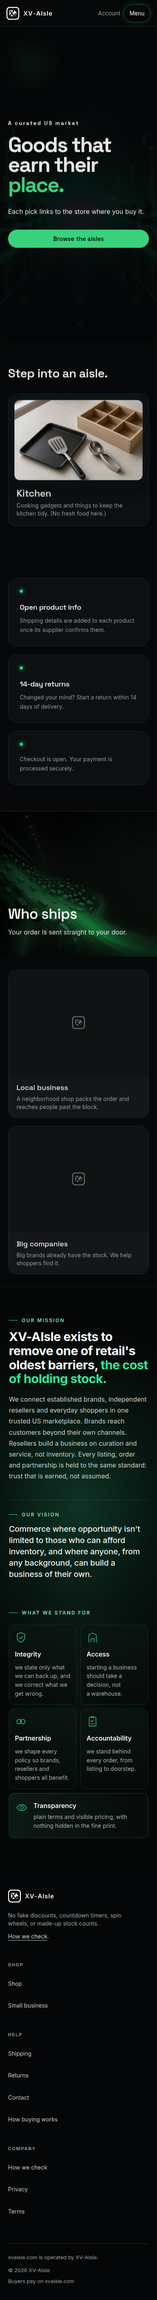
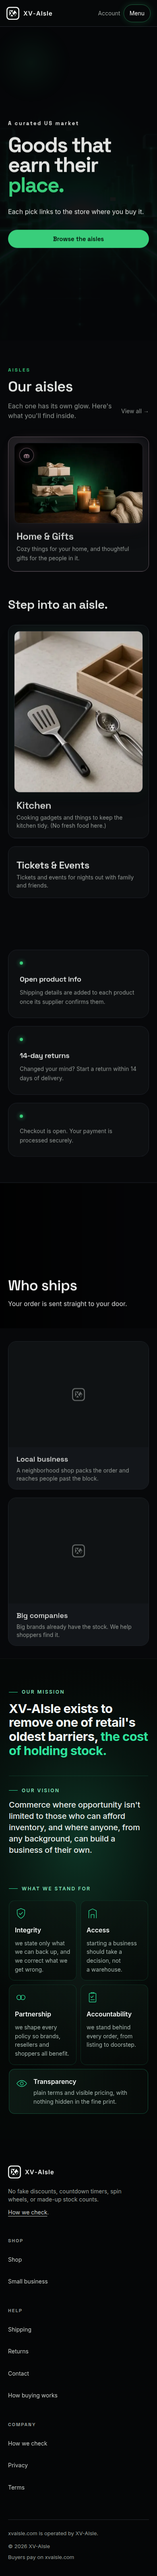
feat: publish the approved partner links
Viator, GetYourGuide, and Zazzle use the approved URLs. Bookshop stays unset, so that card stays hidden while Home & Gifts opens from Zazzle. The meta description and store lede use the new lines, and the mission paragraph is not rendered.

diff --git a/scripts/check-affiliates.ts b/scripts/check-affiliates.ts
@@ -1,4 +1,4 @@
-import { createElement } from "react";
+import { createElement, type ReactElement } from "react";
 import { mkdtempSync, readdirSync, readFileSync, statSync } from "node:fs";
 import { tmpdir } from "node:os";
 import { join } from "node:path";
@@ -38,7 +38,16 @@ async function main() {
   const map = readFileSync(join(process.cwd(), "docs/affiliate-page-map.md"), "utf8");
   assert(map.includes(affiliates.AFFILIATE_DISCLOSURE_SHORT), "the page map quotes the card disclosure");
   assert(map.includes("Gift a book") && map.includes("Gift ideas") && map.includes("Tours and things to do"), "the page map uses the approved headings");
-  assert(affiliates.AFFILIATE_OFFERS.every((offer) => offer.href === ""), "affiliate hrefs stay empty until a link-builder URL is pasted");
+  const approvedHrefs: Record<string, string> = {
+    bookshop: "",
+    viator: "https://www.viator.com/?pid=P00330828&mcid=42383&medium=link",
+    getyourguide: "https://www.getyourguide.com/?partner_id=YEH3QKQ",
+    zazzle: "https://www.zazzle.com/?rf=238672294015858667",
+  };
+  assert(
+    affiliates.AFFILIATE_OFFERS.every((offer) => offer.href === approvedHrefs[offer.id]),
+    "affiliate hrefs are the approved URLs, with Bookshop left unset",
+  );
   assert(
     affiliates.AFFILIATE_OFFERS.every((offer) => offer.disclosure === affiliates.AFFILIATE_DISCLOSURE_SHORT),
     "each partner card uses the shorter disclosure",
@@ -48,20 +57,29 @@ async function main() {
   assert(byId.get("getyourguide")?.partnerId === "YEH3QKQ", "GetYourGuide keeps its public partner id");
   assert(byId.get("zazzle")?.partnerId === "238672294015858667", "Zazzle keeps its public ambassador id");
   assert(byId.get("bookshop")?.partnerId === "", "Bookshop's partner id stays pending");
-  assert(!affiliates.experiencesSpotHasLinks(), "empty experiences hrefs do not count as content");
-  assert(!affiliates.ticketsAisleListed(0), "Tickets & Events stays unlisted with no items and no links");
+  const closed = affiliates.AFFILIATE_OFFERS.map((offer) => ({ ...offer, href: "" }));
+  assert(affiliates.experiencesSpotHasLinks(), "the committed experiences hrefs count as content");
+  assert(!affiliates.experiencesSpotHasLinks(closed), "empty experiences hrefs do not count as content");
+  assert(affiliates.ticketsAisleListed(0), "Tickets & Events is listed from the committed experiences links");
+  assert(!affiliates.ticketsAisleListed(0, closed), "Tickets & Events stays unlisted with no items and no links");
+  assert(affiliates.giftSpotsHaveLinks(), "the committed Zazzle href opens the gift spots");
+  assert(!affiliates.giftSpotsHaveLinks(closed), "empty gift hrefs do not count as content");
+
+  function renderedHrefs(markup: string) {
+    return [...markup.matchAll(/href="([^"]*)"/g)].map((match) => match[1].replaceAll("&amp;", "&"));
+  }
 
   for (const spot of ["books", "experiences", "gifts"] as const) {
-    const markup = renderToStaticMarkup(createElement(AffiliateSpot, { spot }));
-    assert(markup === "", `${spot} spot markup is empty`);
+    const markup = renderToStaticMarkup(createElement(AffiliateSpot, { spot, offers: closed }));
+    assert(markup === "", `${spot} spot markup is empty when its hrefs are blank`);
   }
   const quiet = renderToStaticMarkup(
     createElement(
       "div",
       null,
-      createElement(AffiliateSpot, { spot: "books" }),
-      createElement(AffiliateSpot, { spot: "gifts" }),
-      createElement(AffiliateSpot, { spot: "experiences" }),
+      createElement(AffiliateSpot, { spot: "books", offers: closed }),
+      createElement(AffiliateSpot, { spot: "gifts", offers: closed }),
+      createElement(AffiliateSpot, { spot: "experiences", offers: closed }),
     ),
   );
   for (const word of ["Viator", "GetYourGuide", "Zazzle", "Bookshop", "[WORDY"]) {
@@ -83,6 +101,26 @@ async function main() {
   const gifts = renderToStaticMarkup(createElement(AffiliateSpot, { spot: "gifts", offers: filled }));
   assert(gifts.includes("238672294015858667") && gifts.includes('rel="sponsored noopener noreferrer"'), "the Zazzle link includes its ambassador id");
   assert(gifts.includes(affiliates.AFFILIATE_COPY.giftsHeading), "the gifts heading is the approved line");
+  const liveExperiences = renderToStaticMarkup(createElement(AffiliateSpot, { spot: "experiences" }));
+  const liveHrefs = renderedHrefs(liveExperiences);
+  assert(liveHrefs.includes(approvedHrefs.viator) && liveHrefs.includes(approvedHrefs.getyourguide), "experiences renders the approved URLs exactly");
+  assert(liveExperiences.includes('rel="sponsored noopener noreferrer"') && liveExperiences.includes('target="_blank"'), "the committed experiences links are sponsored and open a new tab");
+  assert(
+    liveExperiences.includes(`>${affiliates.AFFILIATE_DISCLOSURE_SHORT}<`) &&
+      liveExperiences.indexOf("partner-card-disclosure") > liveExperiences.indexOf("partner-card-cta"),
+    "the short disclosure sits next to each experiences link",
+  );
+  const liveGifts = renderToStaticMarkup(createElement(AffiliateSpot, { spot: "gifts" }));
+  assert(renderedHrefs(liveGifts).includes(approvedHrefs.zazzle), "Zazzle renders the approved URL exactly");
+  assert(liveGifts.includes('rel="sponsored noopener noreferrer"'), "the Zazzle link is sponsored");
+  assert(
+    liveGifts.includes(`>${affiliates.AFFILIATE_DISCLOSURE_SHORT}<`) &&
+      liveGifts.indexOf("partner-card-disclosure") > liveGifts.indexOf("partner-card-cta"),
+    "the short disclosure sits next to the Zazzle link",
+  );
+  assert(!liveGifts.includes("$") && !/price/i.test(liveGifts), "the committed Zazzle card shows no price");
+  const liveBooks = renderToStaticMarkup(createElement(AffiliateSpot, { spot: "books" }));
+  assert(liveBooks === "", "an unset Bookshop href renders no card");
   const books = renderToStaticMarkup(createElement(AffiliateSpot, { spot: "books", offers: filled }));
   assert(books.includes(affiliates.AFFILIATE_COPY.bookshopLink) && books.includes('target="_blank"'), "the Bookshop link uses the approved label");
   assert(books.includes(affiliates.AFFILIATE_DISCLOSURE_SHORT), "a filled link shows the card disclosure");
@@ -133,19 +171,29 @@ async function main() {
     assert(visibleItemCount(`/shop?aisle=${slug}`, []) === 0, `${slug} shows no shopper-visible items in an empty prod-like shelf`);
   }
   const more = homepageMoreAisles([]);
-  assert(more.map((tile) => tile.href).join() === "/aisles/kitchen", "More aisles keeps only Kitchen when the other targets are empty");
-  assert(!more.some((tile) => tile.href.includes("tickets")), "Tickets & Events is hidden while its links are empty");
-  assert(homepageNightSlugs([]).length === 0, "empty night aisles are not linked from the homepage");
-  assert(!homeGiftsListed([]), "Home & Gifts is closed with no items and no partner links");
-  assert(!shopStallTabs([]).some((tab) => tab.slug === "home-and-gifts"), "the shop tab hides Home & Gifts when it is closed");
+  const closedMore = homepageMoreAisles([], closed);
+  assert(closedMore.map((tile) => tile.href).join() === "/aisles/kitchen", "More aisles keeps only Kitchen when the other targets are empty");
+  assert(!closedMore.some((tile) => tile.href.includes("tickets")), "Tickets & Events is hidden while its links are empty");
+  assert(more.some((tile) => tile.href === "/aisles/kitchen") && more.some((tile) => tile.href === "/aisles/tickets-and-events"), "committed experiences links add the Tickets tile");
+  assert(homepageNightSlugs([], closed).length === 0, "empty night aisles are not linked when partner hrefs are blank");
+  assert(homepageNightSlugs([]).includes("home-and-gifts"), "the Zazzle link shows the Home & Gifts tile");
+  assert(!homeGiftsListed([], closed), "Home & Gifts is closed with no items and no partner links");
+  assert(homeGiftsListed([]), "Home & Gifts stays open from the Zazzle link alone");
+  assert(!shopStallTabs([], closed).some((tab) => tab.slug === "home-and-gifts"), "the shop tab hides Home & Gifts when it is closed");
+  assert(shopStallTabs([]).some((tab) => tab.slug === "home-and-gifts"), "the shop tab shows Home & Gifts when Zazzle is linked");
+  let giftsPage: unknown = null;
   let redirected = false;
   try {
-    await ShopPage({ searchParams: Promise.resolve({ aisle: "home-and-gifts" }) });
+    giftsPage = await ShopPage({ searchParams: Promise.resolve({ aisle: "home-and-gifts" }) });
   } catch (error) {
     const digest = error && typeof error === "object" && "digest" in error ? String((error as { digest?: unknown }).digest) : "";
-    redirected = digest.includes("NEXT_REDIRECT") && digest.includes("/shop");
+    redirected = digest.includes("NEXT_REDIRECT");
   }
-  assert(redirected, "an empty Home & Gifts aisle redirects to /shop");
+  assert(!redirected && giftsPage, "Home & Gifts renders when Zazzle has a link");
+  const giftsPageHtml = renderToStaticMarkup(giftsPage as ReactElement);
+  assert(renderedHrefs(giftsPageHtml).includes(approvedHrefs.zazzle), "the Home & Gifts page renders the Zazzle URL exactly");
+  assert(!giftsPageHtml.includes("bookshop.org") && !giftsPageHtml.includes(">Bookshop.org<"), "an unset Bookshop href stays off the Home & Gifts page");
+  assert(giftsPageHtml.includes("Gift ideas") && !giftsPageHtml.includes("Gift a book"), "only the linked gift heading renders");
   const bookshopOnly = filled.filter((offer) => offer.network === "bookshop");
   assert(homeGiftsListed([], bookshopOnly), "one Bookshop link opens Home & Gifts");
   assert(homepageNightSlugs([], bookshopOnly).includes("home-and-gifts"), "one Bookshop link shows the Home & Gifts tile");
@@ -164,7 +212,7 @@ async function main() {
       checkoutLine: "Cards are checked on this site.",
       listings: [],
       nightSlugs: [],
-      moreAisles: more,
+      moreAisles: closedMore,
     }),
   );
   assert(homeEmpty.includes("Browse the aisles") && homeEmpty.includes('href="/aisles"'), "an empty shop points the hero at the aisles");
@@ -178,10 +226,20 @@ async function main() {
       checkoutLine: "Cards are checked on this site.",
       listings: [{ productId: "pan", title: "Pan", image: "/art/mock-sheet-pan-1.png" }],
       nightSlugs: ["everyday-finds"],
-      moreAisles: more,
+      moreAisles: closedMore,
     }),
   );
   assert(homeStocked.includes("Our aisles") && homeStocked.includes('href="/shop"'), "a stocked shop restores Our aisles and the shop links");
+  const homeLive = renderToStaticMarkup(
+    createElement(JoinScreen, {
+      checkoutLine: "Cards are checked on this site.",
+      listings: [],
+      nightSlugs: homepageNightSlugs([]),
+      moreAisles: more,
+    }),
+  );
+  assert(homeLive.includes("Our aisles") && homeLive.includes('href="/shop?aisle=home-and-gifts"'), "the live homepage shows Home & Gifts");
+  assert(homeLive.includes('href="/aisles/tickets-and-events"') && !homeLive.includes("dept-grid-single"), "the live homepage shows Tickets beside Kitchen");
   const emptyShop = renderToStaticMarkup(createElement(ShopScreen, { slug: "", listings: [] }));
   assert(emptyShop.includes("Our current picks live in the aisles."), "an empty shop names where the picks are");
   assert(emptyShop.includes("Browse the aisles") && emptyShop.includes('href="/aisles"'), "an empty shop button opens the aisles");

diff --git a/scripts/check-affiliate-html.ts b/scripts/check-affiliate-html.ts
@@ -3,8 +3,10 @@ import { mkdtempSync, readdirSync, readFileSync, statSync } from "node:fs";
 import { tmpdir } from "node:os";
 import { join } from "node:path";
 
-const forbidden = ["Viator", "GetYourGuide", "Zazzle", "Bookshop", "[WORDY"];
-const routes = ["/", "/shop?aisle=home-and-gifts", "/aisles/tickets-and-events"];
+const viatorUrl = "https://www.viator.com/?pid=P00330828&mcid=42383&medium=link";
+const guideUrl = "https://www.getyourguide.com/?partner_id=YEH3QKQ";
+const zazzleUrl = "https://www.zazzle.com/?rf=238672294015858667";
+const disclosure = "We may earn a commission when you buy through these links.";
 const port = 4331;
 const base = `http://127.0.0.1:${port}`;
 
@@ -61,15 +63,26 @@ async function main() {
   });
   try {
     await waitForServer();
-    for (const route of routes) {
-      const response = await fetch(base + route);
-      const body = await response.text();
-      const expected = route === "/aisles/tickets-and-events" ? 404 : 200;
-      assert(response.status === expected, `${route} returned ${response.status}`);
-      for (const word of forbidden) {
-        assert(!body.includes(word), `${route} HTML/RSC includes ${word}`);
-      }
+    const home = await fetch(base + "/", { redirect: "manual" });
+    const homeBody = await home.text();
+    assert(home.status === 200, `home returned ${home.status}`);
+    for (const word of ["Viator", "GetYourGuide", "Zazzle", "Bookshop", "[WORDY", viatorUrl, zazzleUrl]) {
+      assert(!homeBody.includes(word), `home HTML/RSC includes ${word}`);
     }
+    const gifts = await fetch(base + "/shop?aisle=home-and-gifts", { redirect: "manual" });
+    const giftsBody = await gifts.text();
+    assert(gifts.status === 200, `Home & Gifts returned ${gifts.status}`);
+    assert(giftsBody.includes(zazzleUrl.replaceAll("&", "&amp;")), "Home & Gifts HTML renders the Zazzle URL");
+    assert(giftsBody.includes('rel="sponsored noopener noreferrer"'), "Home & Gifts partner links are sponsored");
+    assert(giftsBody.includes(disclosure), "Home & Gifts shows the short disclosure");
+    assert(!giftsBody.includes("bookshop.org") && !giftsBody.includes("[WORDY"), "Home & Gifts omits the unset Bookshop link");
+    const tickets = await fetch(base + "/aisles/tickets-and-events", { redirect: "manual" });
+    const ticketsBody = await tickets.text();
+    assert(tickets.status === 200, `Tickets & Events returned ${tickets.status}`);
+    assert(ticketsBody.includes(viatorUrl.replaceAll("&", "&amp;")), "Tickets HTML renders the Viator URL");
+    assert(ticketsBody.includes(guideUrl), "Tickets HTML renders the GetYourGuide URL");
+    assert(ticketsBody.includes('rel="sponsored noopener noreferrer"'), "Tickets partner links are sponsored");
+    assert(ticketsBody.includes(disclosure) && !ticketsBody.includes("[WORDY"), "Tickets shows the short disclosure");
   } finally {
     child.kill("SIGTERM");
   }

diff --git a/scripts/check-x.ts b/scripts/check-x.ts
@@ -281,10 +281,16 @@ assert(siteCard.width === 1200 && siteCard.height === 630, "the site card on a p
 const productPage = readFileSync(join(process.cwd(), "src/app/shop/[productId]/page.tsx"), "utf8");
 assert(productPage.includes("productOgImage"), "product share cards set image width and height");
 const mission = renderToStaticMarkup(createElement(MissionValues));
+const missionSource = readFileSync(join(process.cwd(), "src/components/mission-values.tsx"), "utf8");
 assert(
-  !mission.includes("reviewed") && mission.includes("trust that is earned"),
-  "the mission does not claim products are reviewed",
+  missionSource.includes("trust that is earned, not\\u00A0assumed."),
+  "the locked mission paragraph stays in the source",
 );
+assert(
+  !mission.includes("vm-body") && !mission.includes("trust that is earned") && !mission.includes("reviewed"),
+  "the mission paragraph is hidden for launch",
+);
+assert(mission.includes("Our mission") && mission.includes("Our vision"), "the mission block still renders without that paragraph");
 setAppUrl(saved.appUrl);
 if (saved.site == null) delete process.env.PUBLIC_SITE_URL;
 else process.env.PUBLIC_SITE_URL = saved.site;

diff --git a/scripts/check-aisles.ts b/scripts/check-aisles.ts
@@ -593,7 +593,13 @@ async function main() {
       assert(!html.includes(phrase), `${slug} omits ${phrase}`);
     }
   }
-  for (const slug of ["tickets-and-events", "no-such-aisle", "gifts"]) {
+  const ticketsPage = await aislePage.default({ params: Promise.resolve({ slug: "tickets-and-events" }) });
+  const ticketsHtml = renderToStaticMarkup(ticketsPage);
+  assert(ticketsHtml.includes("https://www.viator.com/?pid=P00330828&amp;mcid=42383&amp;medium=link"), "Tickets & Events renders the Viator URL");
+  assert(ticketsHtml.includes("https://www.getyourguide.com/?partner_id=YEH3QKQ"), "Tickets & Events renders the GetYourGuide URL");
+  assert(ticketsHtml.includes('rel="sponsored noopener noreferrer"'), "Tickets & Events partner links are sponsored");
+  assert(ticketsHtml.includes("We may earn a commission when you buy through these links."), "Tickets & Events shows the short disclosure");
+  for (const slug of ["no-such-aisle", "gifts"]) {
     try {
       await aislePage.default({ params: Promise.resolve({ slug }) });
       throw new Error(`${slug} rendered a page`);

diff --git a/src/config/affiliates.ts b/src/config/affiliates.ts
@@ -83,7 +83,7 @@ export const AFFILIATE_OFFERS: readonly AffiliateOffer[] = [
     id: "viator",
     network: "viator",
     spot: "experiences",
-    href: "",
+    href: "https://www.viator.com/?pid=P00330828&mcid=42383&medium=link",
     label: AFFILIATE_COPY.viatorLink,
     partnerId: "P00330828",
     disclosure: AFFILIATE_DISCLOSURE_SHORT,
@@ -92,7 +92,7 @@ export const AFFILIATE_OFFERS: readonly AffiliateOffer[] = [
     id: "getyourguide",
     network: "getyourguide",
     spot: "experiences",
-    href: "",
+    href: "https://www.getyourguide.com/?partner_id=YEH3QKQ",
     label: AFFILIATE_COPY.getyourguideLink,
     partnerId: "YEH3QKQ",
     disclosure: AFFILIATE_DISCLOSURE_SHORT,
@@ -101,7 +101,7 @@ export const AFFILIATE_OFFERS: readonly AffiliateOffer[] = [
     id: "zazzle",
     network: "zazzle",
     spot: "gifts",
-    href: "",
+    href: "https://www.zazzle.com/?rf=238672294015858667",
     label: AFFILIATE_COPY.zazzleLink,
     partnerId: "238672294015858667",
     disclosure: AFFILIATE_DISCLOSURE_SHORT,

diff --git a/src/components/mission-values.tsx b/src/components/mission-values.tsx
@@ -2,6 +2,7 @@ const mission =
   "XV-AIsle exists to remove one of retail's oldest barriers, the cost of holding stock.";
 const missionBody =
   "We connect established brands, independent resellers and everyday shoppers in one trusted US marketplace. Brands reach customers beyond their own channels. Resellers build a business on curation and service, not inventory. Every listing, order and partnership is held to the same standard: trust that is earned, not\u00A0assumed.";
+export { missionBody };
 const vision =
   "Commerce where opportunity isn't limited to those who can afford inventory, and where anyone, from any background, can build a business of their own.";
 
@@ -20,7 +21,6 @@ export function MissionValues() {
           {mission.split("the cost of holding stock.")[0]}
           <em>the cost of holding stock.</em>
         </h2>
-        <p className="vm-body text-pretty">{missionBody}</p>
         <div className="vm-vision">
           <div className="vm-eye">Our vision</div>
           <p>{vision}</p>

diff --git a/scripts/check-shop-polish.ts b/scripts/check-shop-polish.ts
@@ -220,9 +220,9 @@ async function main() {
   const home = readFileSync(join(process.cwd(), "src/components/home-screen.tsx"), "utf8");
   assert(
     home.includes(
-      "lede=\"Shipping details are added to each product once its supplier confirms them.\"",
+      "lede=\"Prices, shipping and returns are set by the store you buy from.\"",
     ),
-    "In the store keeps the shipping line and does not claim a review",
+    "In the store uses the store-sets-the-terms line",
   );
   assert(!home.includes("Pay safely with Stripe, and your order ships straight to your door."), "the old In the store subhead is gone");
   const art = readFileSync(join(process.cwd(), "src/lib/art.ts"), "utf8");

diff --git a/src/components/home-screen.tsx b/src/components/home-screen.tsx
@@ -123,7 +123,7 @@ export function JoinScreen({
         <ShopGrid
           kicker="Featured"
           title="In the store"
-          lede="Shipping details are added to each product once its supplier confirms them."
+          lede="Prices, shipping and returns are set by the store you buy from."
           query=""
           empty="Nothing's on the shelves yet. We're picking the first pieces now."
           limit={4}

diff --git a/src/app/layout.tsx b/src/app/layout.tsx
@@ -27,7 +27,7 @@ export function generateMetadata(): Metadata {
   return {
     title: "XV-AIsle",
     description:
-      "XV-AIsle is a curated US market for home, kitchen and everyday goods.",
+      "XV-AIsle gathers home, kitchen and everyday picks, each linking to the store where you buy it.",
     ...shareCardMetadata(),
   };
 }

diff --git a/docs/affiliate-page-map.md b/docs/affiliate-page-map.md
@@ -2,6 +2,8 @@
 
 Empty hrefs render nothing: no markup, no heading, and no partner name. Spots are mounted in the server tree and stay blank until a link-builder URL is pasted into `href`. Partner ids are not used to build those URLs.
 
+Committed hrefs, pasted as approved: Viator `https://www.viator.com/?pid=P00330828&mcid=42383&medium=link`, GetYourGuide `https://www.getyourguide.com/?partner_id=YEH3QKQ`, Zazzle `https://www.zazzle.com/?rf=238672294015858667`. The Bookshop.org href is unset, so that card stays hidden. Home & Gifts still opens because the Zazzle href is set.
+
 Each card's disclosure is the config value. All four currently use: We may earn a commission when you buy through these links.
 
 The longer line remains in config and is not on the cards: We may earn a commission when you buy through these links, at no extra cost to you.
@@ -10,7 +12,7 @@ Zazzle does not render on a Personalized item or that item's tile.
 
 | Spot | Route | Section | Component | Copy |
 | --- | --- | --- | --- | --- |
-| Books | `/shop?aisle=home-and-gifts`, next to the Gifts spot. No separate Books route. The homepage tile, shop tab, and this URL appear only when the aisle has shop items or a Bookshop/Zazzle link. Otherwise the URL redirects to `/shop`. Bookshop partner id is pending. | Gift a book | `AffiliateSpot` `spot="books"` in `src/components/affiliate-spot.tsx` | Heading “Gift a book”. Link “Browse books on Bookshop.org”. |
+| Books | `/shop?aisle=home-and-gifts`, next to the Gifts spot. No separate Books route. The homepage tile, shop tab, and this URL appear only when the aisle has shop items or a Bookshop/Zazzle link. Otherwise the URL redirects to `/shop`. Bookshop partner id is pending, and its href is unset, so this card renders nothing. | Gift a book | `AffiliateSpot` `spot="books"` in `src/components/affiliate-spot.tsx` | Heading “Gift a book”. Link “Browse books on Bookshop.org”. |
 | Experiences | `/aisles/tickets-and-events`. The homepage tile and the Aisles index link render only when this aisle has at least one configured experiences link or a real item. Viator partner P00330828. GetYourGuide partner YEH3QKQ. | Tours and things to do | `AffiliateSpot` `spot="experiences"` in `src/components/affiliate-spot.tsx` | Heading “Tours and things to do”. Links “See things to do on Viator” and “See things to do on GetYourGuide”. |
 | Gifts | `/shop?aisle=home-and-gifts`, next to the Books spot. Same visibility rule as Books. Never on a Personalized item or its tile. Zazzle Ambassador ID 238672294015858667. | Gift ideas | `AffiliateSpot` `spot="gifts"` in `src/components/affiliate-spot.tsx` | Heading “Gift ideas”. Link “Browse gifts on Zazzle”. |
 
